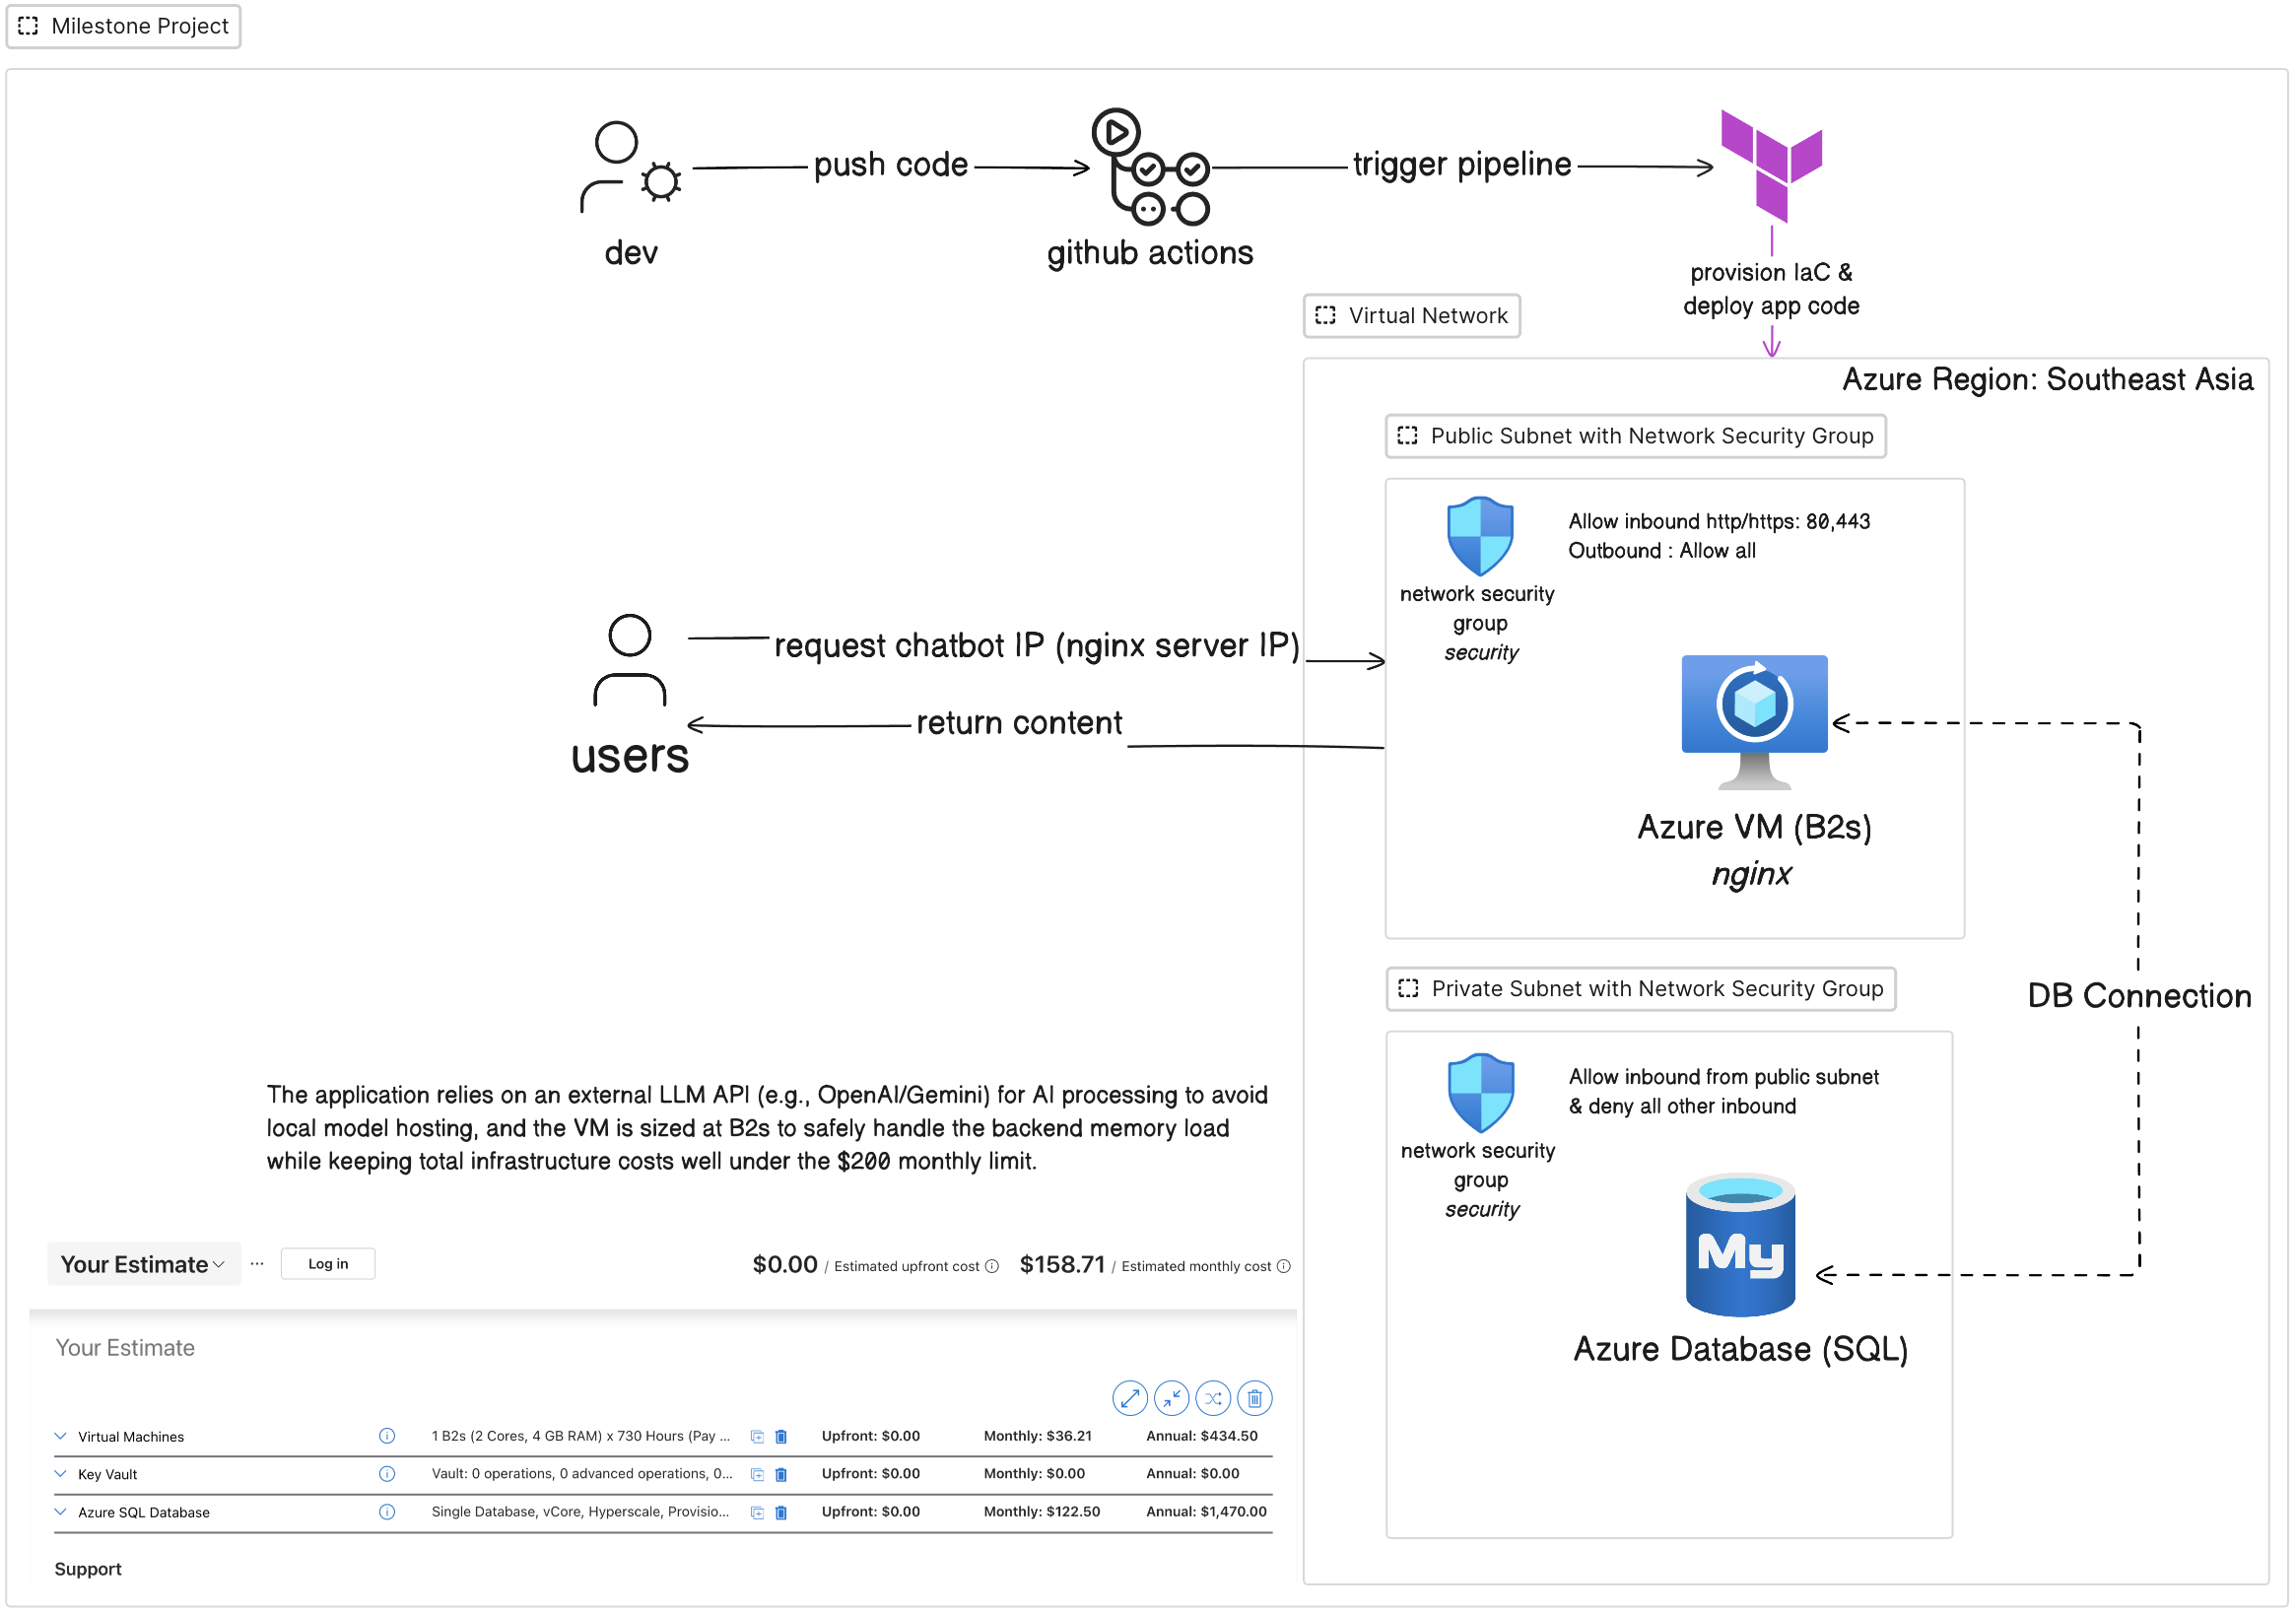
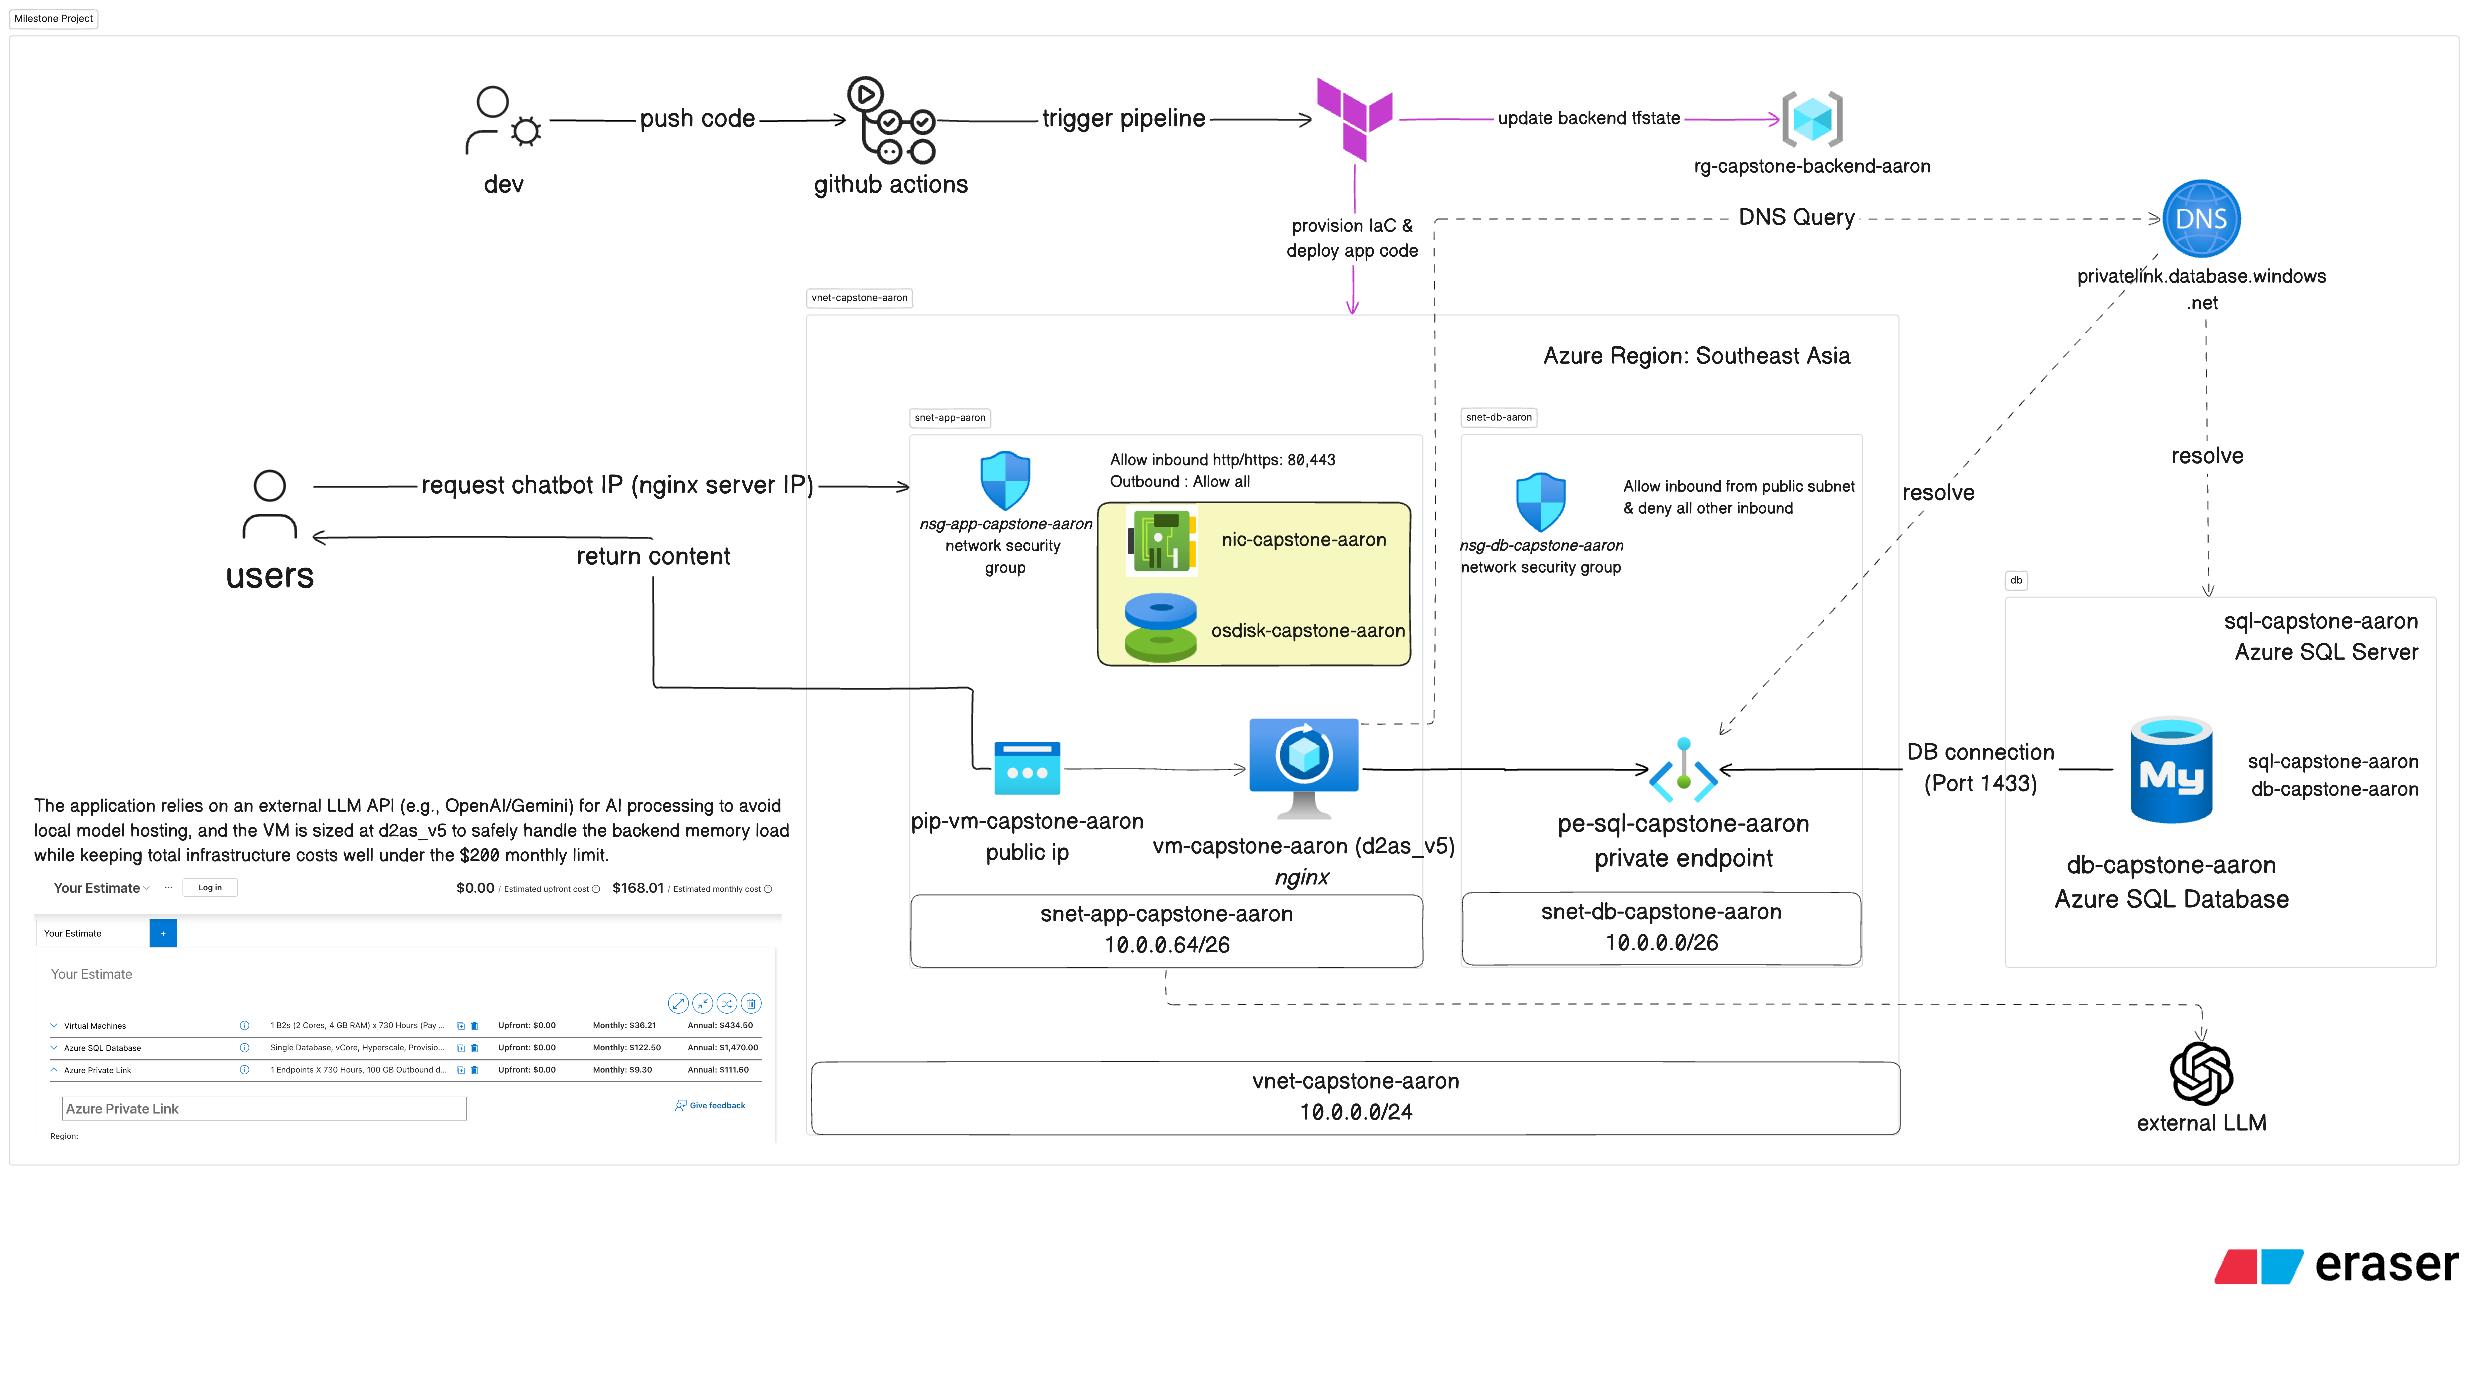
docs: updated architecture and readme

diff --git a/README.md b/README.md
@@ -1,7 +1,11 @@
-# infra-design-milestone-aaron
-# Infra module
+# Infra-design-milestone-aaron
+This repository contains Infrastructure as Code to deploy a complete Azure environment with networking, Linux VMs, and managed SQL databases using Terraform.
 
 This folder contains the Terraform configuration for the Azure infrastructure.
+
+## Architecture
+
+![Azure Infrastructure Architecture](docs/architecture.png)
 
 ## Local setup
 
@@ -41,6 +45,28 @@ terraform init
 terraform plan -out=tfplan
 terraform apply tfplan
 ```
+
+## Verify the deployment
+
+If the setup completed successfully, you should be able to:
+
+1. SSH into the VM
+```bash
+ssh -i ~/.ssh/id_rsa azureuser@<vm-public-ip>
+```
+
+2. Open the public IP address of the VM in your browser and see the default Nginx welcome page
+3. Confirm that the SQL private endpoint resolves correctly from the VM
+```bash
+nslookup <sql-server-name>.database.windows.net
+nc -vz <sql-server-name>.database.windows.net 1433
+```
+
+If everything is working correctly, the browser should show the Nginx default page, similar to this:
+
+![Nginx default page](docs/nginx.png)
+
+If you do not see the page, check that the VM is running, the public IP is correct, and the network security group allows inbound HTTP traffic.
 
 ## CI/CD setup
 